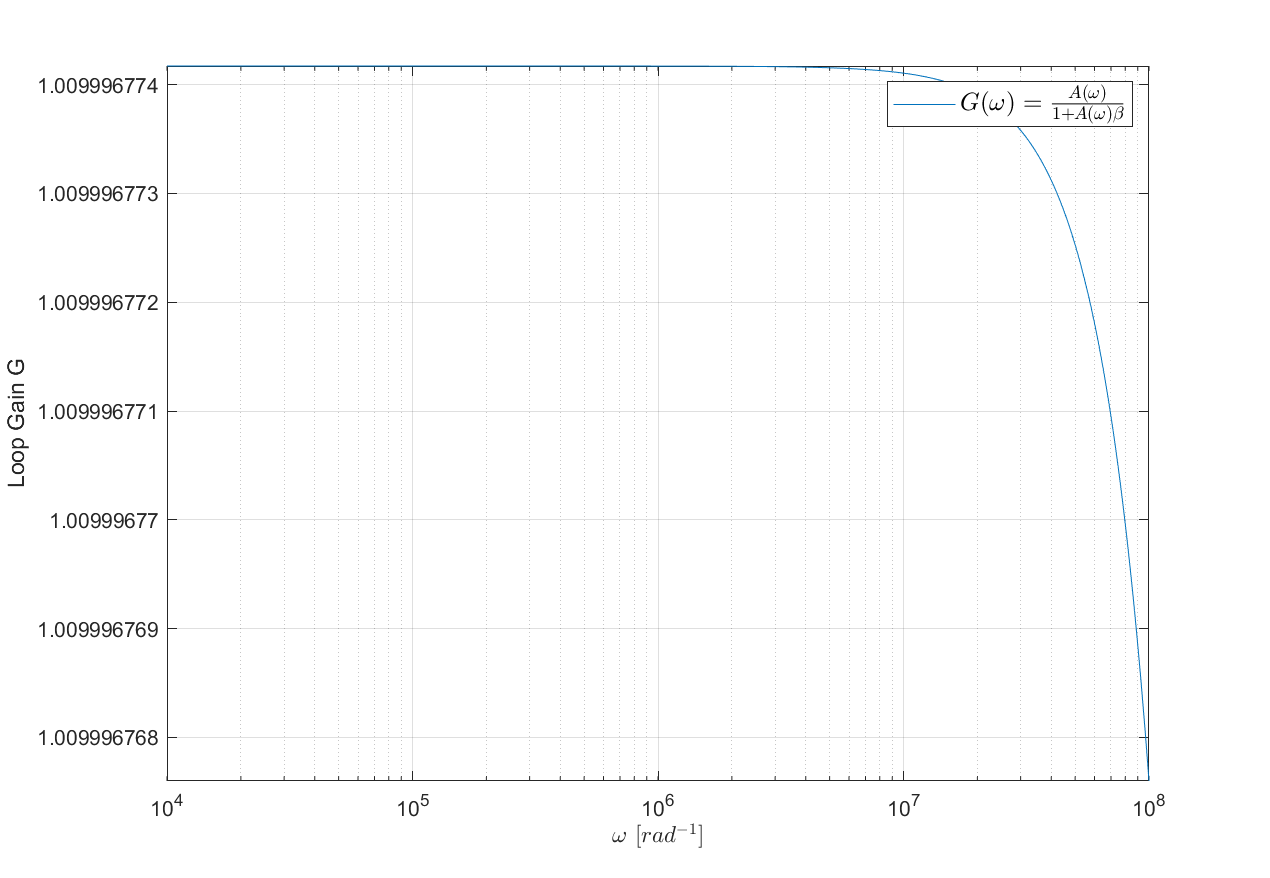
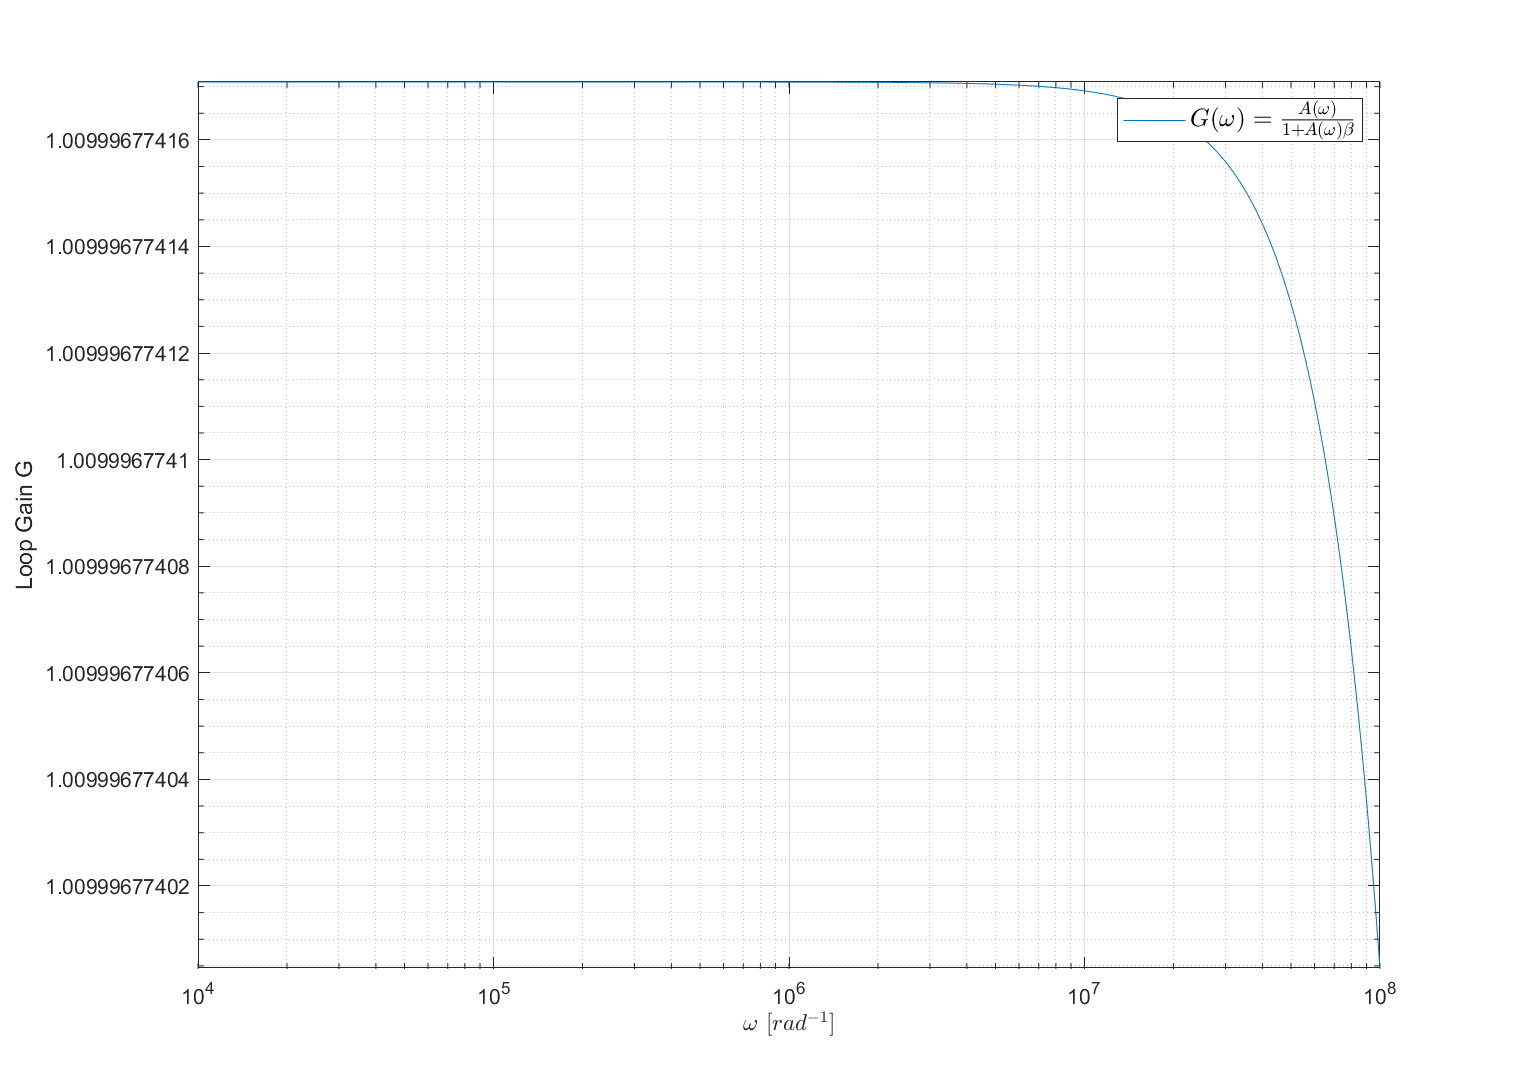
f

diff --git a/settimana_8/scripts/es3.m b/settimana_8/scripts/es3.m
@@ -2,7 +2,7 @@ R1 = 10e3;
 R2 = 100;
 GBP = 2.8e6;
 w = linspace(10^4, 10^8, 1000);
-tau = 1/GBP
+tau = 1/(2*pi*GBP)
 A0 = 10^(110/20);
 Guad = @(x) GuadagnoG(beta(R1, R2), A0./(1 + 1i.*x.*tau));
 y = abs(Guad(w));
@@ -12,6 +12,6 @@ xlabel("$\omega$ [$rad^{-1}$]", 'Interpreter', 'Latex')
 ylabel("Loop Gain G")
 legend('$G(\omega) = \frac{A(\omega)}{1 + A(\omega) \beta}$', 'Interpreter', 'Latex', 'Fontsize', 12)
 set(gca, 'XScale', 'log')
-%set(gca, 'YScale', 'log')
+set(gca, 'YScale', 'log')
 grid()
 saveas(gcf,'tmp/provaes3.png');
